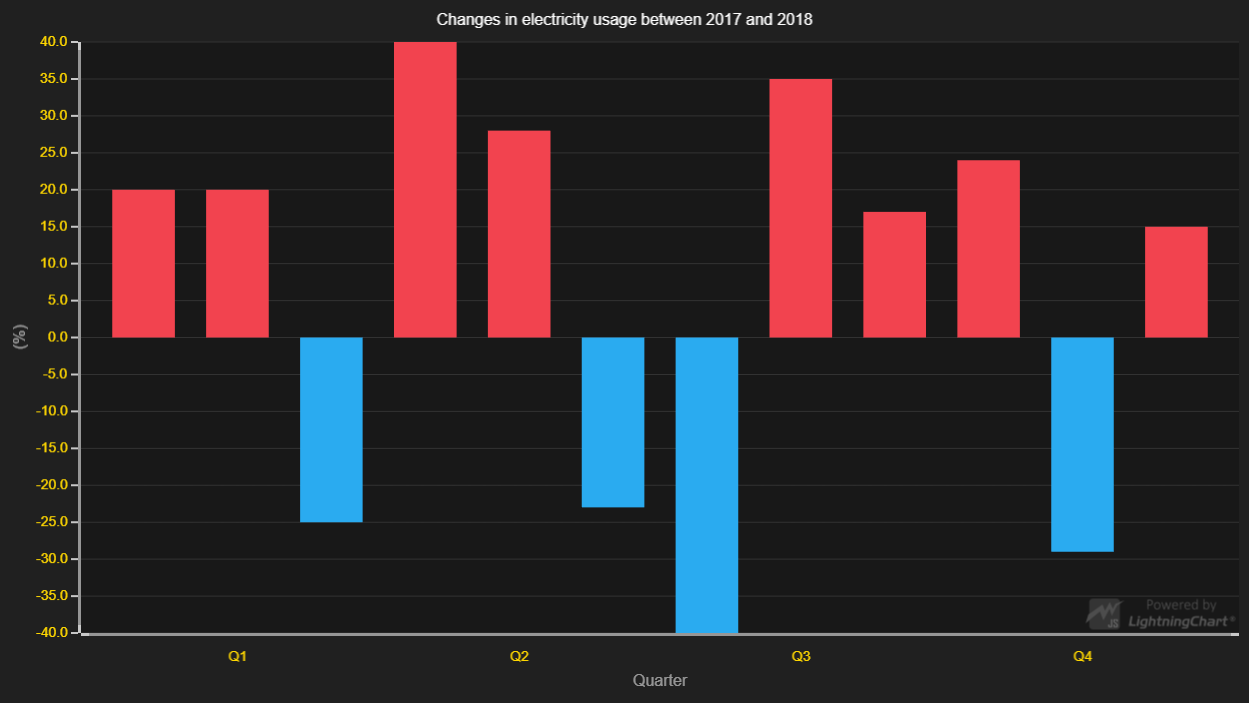
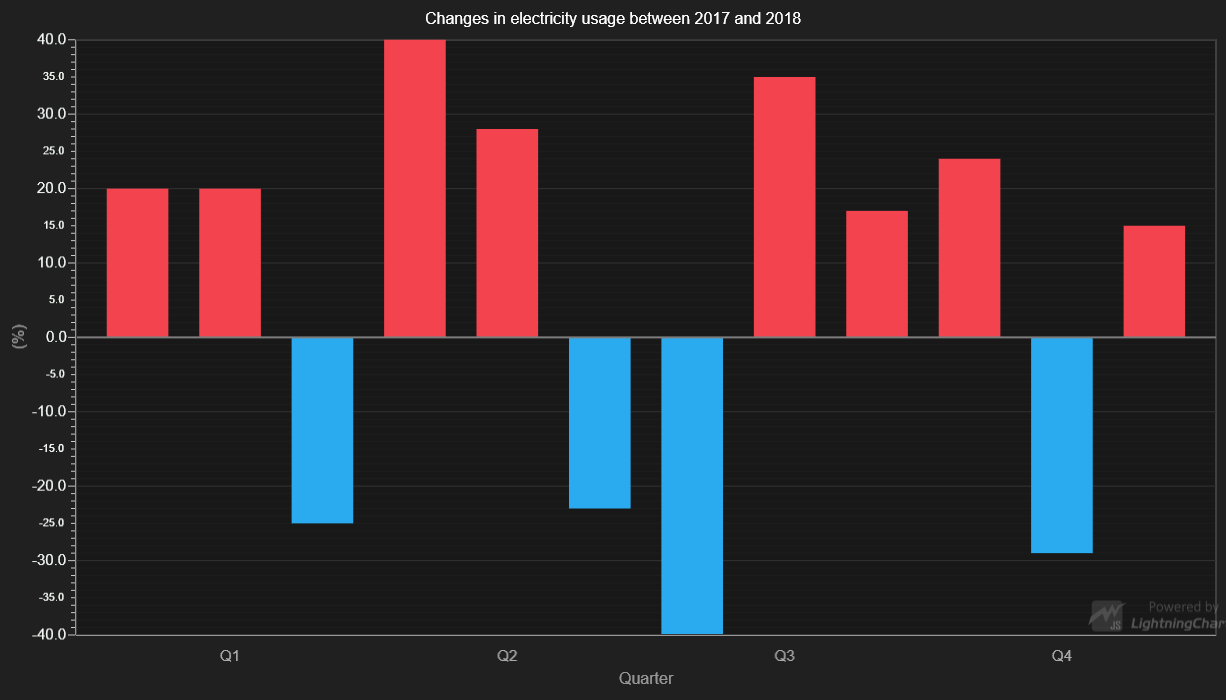
LCJS 2.0.0

diff --git a/src/index.js b/src/index.js
@@ -15,7 +15,8 @@ const {
     emptyFill,
     AutoCursorModes,
     UIOrigins,
-    emptyTick
+    AxisTickStrategies,
+    Themes
 } = lcjs
 
 const lc = lightningChart()
@@ -107,7 +108,7 @@ let barChart
             .setMouseInteractions(false)
             .setScrollStrategy(undefined)
             // Disable default ticks.
-            .setTickStyle(emptyTick)
+            .setTickStrategy(AxisTickStrategies.Empty)
 
         // Y-axis of the series
         const axisY = chart.getDefaultAxisY()
@@ -120,7 +121,7 @@ let barChart
         constantLine.setValue(0)
             .setMouseInteractions(false)
             .setStrokeStyle(new SolidLine(
-                { thickness: 2, fillStyle: new SolidFill({ color: ColorRGBA(125,125,125) }) }))
+                { thickness: 2, fillStyle: new SolidFill({ color: ColorRGBA(125, 125, 125) }) }))
 
         /**
          * Add multiple bars.
@@ -172,6 +173,7 @@ let barChart
                         .setFillStyle(emptyFill)
                         .setStrokeStyle(emptyLine)
                     )
+                    .setTextFillStyle(new SolidFill({ color: ColorRGBA(170, 170, 170) }))
                 )
             x += figureThickness + figureGap
             // Return data-structure with both original 'entry' and the rectangle figure that represents it.
@@ -190,7 +192,9 @@ let barChart
 }
 
 // Use bar chart interface to construct series.
-const chart = barChart()
+const chart = barChart({
+    // theme: Themes.dark
+})
 // Add multiple bars at once.
 chart.addValues([
     { category: '', value: 20 },

diff --git a/README.md b/README.md
@@ -43,17 +43,17 @@ The actual Bar Chart logic just serves to provide a starting point for users to 
 
 ## API Links
 
-* XY cartesian chart: [ChartXY]
-* Rectangle series: [RectangleSeries]
-* Solid FillStyle: [SolidFill]
-* Empty FillStyle: [emptyFill]
-* Solid LineStyle: [SolidLine]
-* Empty LineStyle: [emptyLine]
-* RGBA color factory: [ColorRGBA]
-* cursor modes: [AutoCursorModes]
-* Axis: [Axis]
-* Scroll strategies: [AxisScrollStrategies]
-* UI position origins: [UIOrigins]
+* [XY cartesian chart]
+* [Rectangle series]
+* [Solid FillStyle]
+* [Empty FillStyle]
+* [Solid LineStyle]
+* [Empty LineStyle]
+* [RGBA color factory]
+* [cursor modes]
+* [Axis]
+* [Scroll strategies]
+* [UI position origins]
 
 
 ## Support
@@ -77,15 +77,15 @@ Direct developer email support can be purchased through a [Support Plan][4] or b
 © Arction Ltd 2009-2020. All rights reserved.
 
 
-[ChartXY]: https://www.arction.com/lightningchart-js-api-documentation/v1.3.0/classes/chartxy.html
-[RectangleSeries]: https://www.arction.com/lightningchart-js-api-documentation/v1.3.0/classes/rectangleseries.html
-[SolidFill]: https://www.arction.com/lightningchart-js-api-documentation/v1.3.0/classes/solidfill.html
-[emptyFill]: https://www.arction.com/lightningchart-js-api-documentation/v1.3.0/globals.html#emptyfill
-[SolidLine]: https://www.arction.com/lightningchart-js-api-documentation/v1.3.0/classes/solidline.html
-[emptyLine]: https://www.arction.com/lightningchart-js-api-documentation/v1.3.0/globals.html#emptyline
-[ColorRGBA]: https://www.arction.com/lightningchart-js-api-documentation/v1.3.0/globals.html#colorrgba
-[AutoCursorModes]: https://www.arction.com/lightningchart-js-api-documentation/v1.3.0/enums/autocursormodes.html
-[Axis]: https://www.arction.com/lightningchart-js-api-documentation/v1.3.0/classes/axis.html
-[AxisScrollStrategies]: https://www.arction.com/lightningchart-js-api-documentation/v1.3.0/globals.html#axisscrollstrategies
-[UIOrigins]: https://www.arction.com/lightningchart-js-api-documentation/v1.3.0/globals.html#uiorigins
+[XY cartesian chart]: https://www.arction.com/lightningchart-js-api-documentation/v2.0.0/classes/chartxy.html
+[Rectangle series]: https://www.arction.com/lightningchart-js-api-documentation/v2.0.0/classes/rectangleseries.html
+[Solid FillStyle]: https://www.arction.com/lightningchart-js-api-documentation/v2.0.0/classes/solidfill.html
+[Empty FillStyle]: https://www.arction.com/lightningchart-js-api-documentation/v2.0.0/globals.html#emptyfill
+[Solid LineStyle]: https://www.arction.com/lightningchart-js-api-documentation/v2.0.0/classes/solidline.html
+[Empty LineStyle]: https://www.arction.com/lightningchart-js-api-documentation/v2.0.0/globals.html#emptyline
+[RGBA color factory]: https://www.arction.com/lightningchart-js-api-documentation/v2.0.0/globals.html#colorrgba
+[cursor modes]: https://www.arction.com/lightningchart-js-api-documentation/v2.0.0/enums/autocursormodes.html
+[Axis]: https://www.arction.com/lightningchart-js-api-documentation/v2.0.0/classes/axis.html
+[Scroll strategies]: https://www.arction.com/lightningchart-js-api-documentation/v2.0.0/globals.html#axisscrollstrategies
+[UI position origins]: https://www.arction.com/lightningchart-js-api-documentation/v2.0.0/globals.html#uiorigins
 
